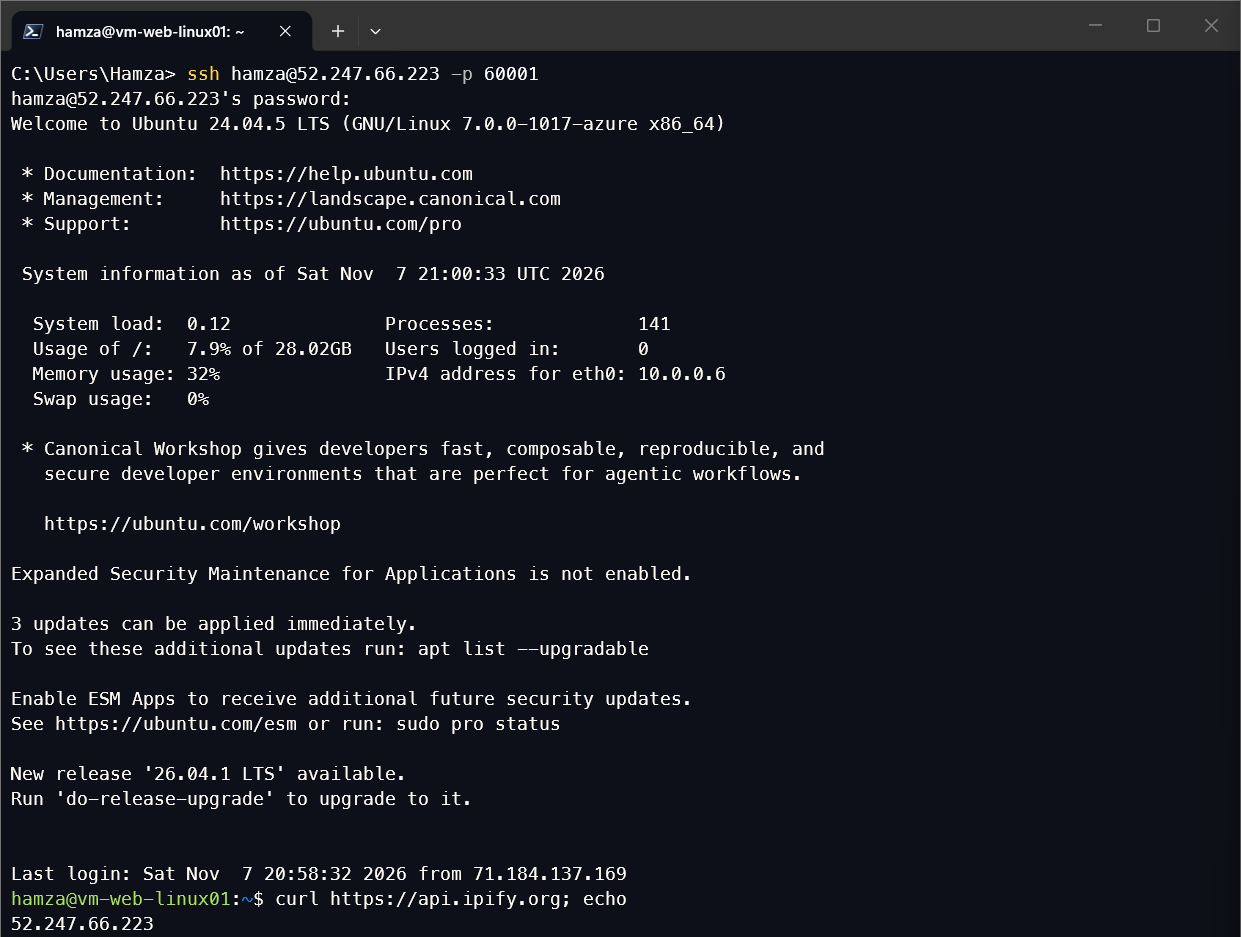
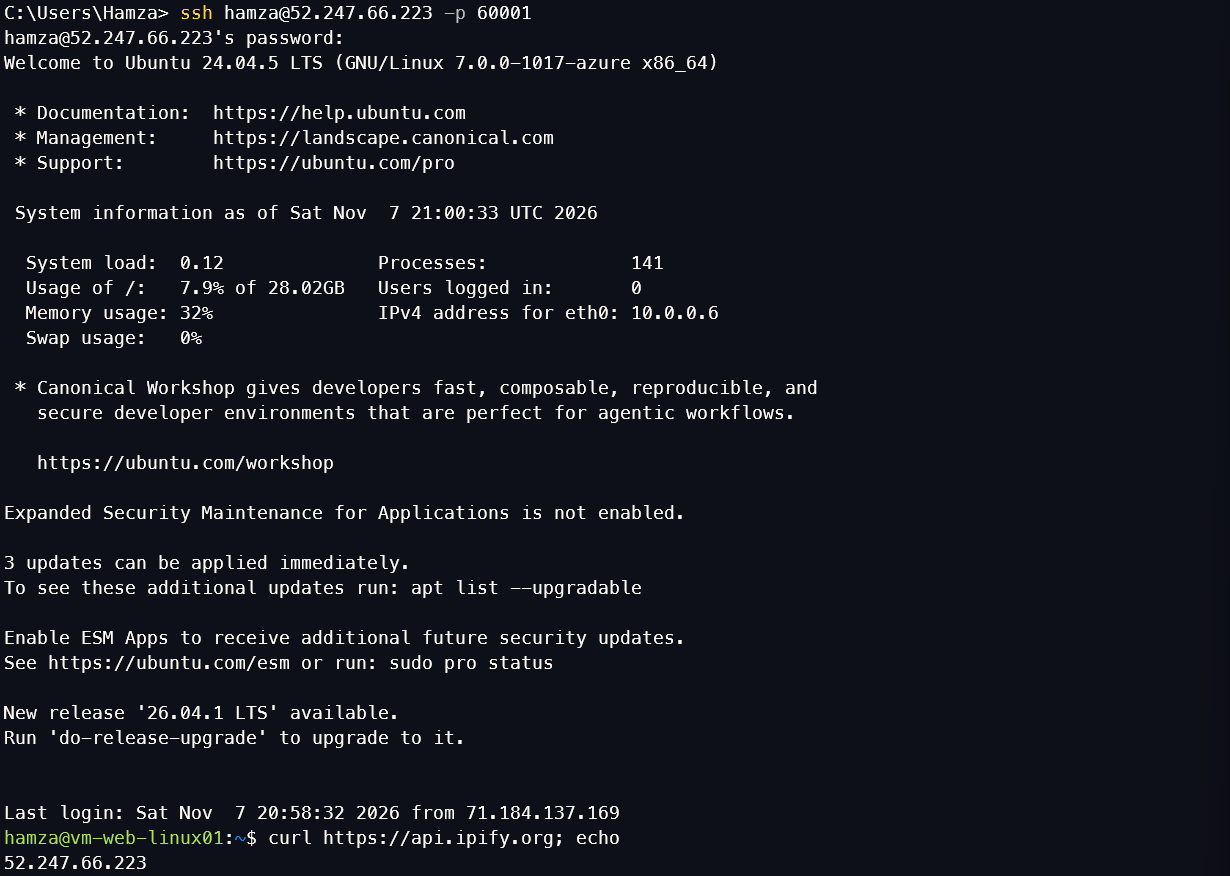
commit

diff --git a/01-Networking/README.md b/01-Networking/README.md
@@ -1,15 +1,15 @@
-# Project 01 — Azure Hub-and-Spoke Network & Security Architecture
+# Project 01 - Azure Hub-and-Spoke Network & Security Architecture
 
 ![Azure Hub-and-Spoke Network & Security Architecture](Architecture/01-Azure-Hub-and-Spoke-Network-Security-Architecture.svg)
 
 ## Overview
 
-This project builds a hub-and-spoke network in Azure to centralize traffic inspection and provide secure access to private workloads. Azure Firewall controls outbound traffic, Azure Bastion provides administrative access to the virtual machines, and firewall diagnostics are sent to Log Analytics for monitoring.
+This project builds a hub-and-spoke network in Azure to centralize traffic inspection and provide secure access to private workloads. Azure Firewall controls outbound traffic, Azure Bastion provides administrative access to the virtual machines, and firewall diagnostics are sent to Log Analytics for monitoring. Windows Server and Ubuntu test VMs are used to validate private connectivity, DNS resolution, and controlled outbound access.
 
 Resources are organized into two resource groups:
 
-- `rg-network-hub` — hub VNet, Azure Firewall, Azure Bastion, public IP resources, and Log Analytics.
-- `rg-network-workload` — workload VNet, NSG, route table, and test VMs.
+- `rg-network-hub` - hub VNet, Azure Firewall, Azure Bastion, public IP resources, and Log Analytics.
+- `rg-network-workload` - workload VNet, NSG, route table, and test VMs.
 
 The script creates both resource groups in East US 2 and checks their provisioning state:
 
@@ -104,7 +104,7 @@ $VirtualMachine = Add-AzVMNetworkInterface -VM $VMConfig -Id $NetworkInterface.I
 New-AzVM -ResourceGroupName $ResourceGroupName -Location $Location -VM $VirtualMachine
 ```
 
-The Ubuntu script uses `-Linux` in `Set-AzVMOperatingSystem`; both scripts collect credentials with `Get-Credential`.
+The Ubuntu script uses `-Linux` in `Set-AzVMOperatingSystem`. Both scripts collect credentials with `Get-Credential`.
 
 **Scripts:** [Windows VM](Scripts/06-Create-WindowsVM.ps1) · [Ubuntu VM](Scripts/07-Create-UbuntuVM.ps1)
 
@@ -155,7 +155,7 @@ Both public IP resources are created before `azfw-hub`:
 $FirewallPublicIP = New-AzPublicIpAddress -Name $FirewallPublicIPName -ResourceGroupName $ResourceGroupName -Location $Location -AllocationMethod Static
 $ManagementPublicIP = New-AzPublicIpAddress -Name $ManagementPublicIPName -ResourceGroupName $ResourceGroupName -Location $Location -AllocationMethod Static
 
-$Firewall = New-AzFirewall -Name $FirewallName -ResourceGroupName $ResourceGroupName -Location $Location -VirtualNetwork $HubVNet -PublicIpAddress $FirewallPublicIP -ManagementPublicIpAddress $ManagementPublicIP -SkuTier $FirewallSKU
+$Firewall = New-AzFirewall -Name $FirewallName -ResourceGroupName $ResourceGroupName -Location $Location -VirtualNetwork $HubVNet -PublicIpAddress $FirewallPublicIP -ManagementPublicIpAddress $ManagementPublicIP -SkuTier Basic
 ```
 
 After deployment, the firewall configuration is checked for its assigned private IP:
@@ -172,7 +172,7 @@ $Firewall = Get-AzFirewall -Name $FirewallName -ResourceGroupName $FirewallResou
 $FirewallPrivateIP = $Firewall.IpConfigurations[0].PrivateIpAddress
 
 $RouteTable = New-AzRouteTable -Name $RouteTableName -ResourceGroupName $ResourceGroupName -Location $Location
-Add-AzRouteConfig -Name $RouteName -AddressPrefix $AddressPrefix -NextHopType $NextHopType -NextHopIpAddress $FirewallPrivateIP -RouteTable $RouteTable
+Add-AzRouteConfig -Name $RouteName -AddressPrefix $AddressPrefix -NextHopType VirtualAppliance -NextHopIpAddress $FirewallPrivateIP -RouteTable $RouteTable
 Set-AzRouteTable -RouteTable $RouteTable
 ```
 
@@ -192,8 +192,8 @@ The firewall provides centralized outbound filtering for the workload subnet. It
 `allow-dns` is a network rule targeting an IP address and port. `allow-https` is an application rule targeting an FQDN. The DNS rule and its collection are created and applied to `azfw-hub` as follows:
 
 ```powershell
-$Rule = New-AzFirewallNetworkRule -Name 'allow-dns' -SourceAddress '10.1.0.0/24' -DestinationAddress '1.1.1.1' -Protocol 'UDP' -DestinationPort '53'
-$RuleCollection = New-AzFirewallNetworkRuleCollection -Name 'rc-workload-network' -Priority 100 -ActionType 'Allow' -Rule $Rule
+$Rule = New-AzFirewallNetworkRule -Name 'allow-dns' -SourceAddress '10.1.0.0/24' -DestinationAddress '1.1.1.1' -Protocol UDP -DestinationPort 53
+$RuleCollection = New-AzFirewallNetworkRuleCollection -Name 'rc-workload-network' -Priority 100 -ActionType Allow -Rule $Rule
 
 $Firewall = Get-AzFirewall -Name 'azfw-hub' -ResourceGroupName 'rg-network-hub'
 $Firewall.NetworkRuleCollections.Add($RuleCollection)
@@ -204,7 +204,7 @@ Set-AzFirewall -AzureFirewall $Firewall
 
 ```powershell
 $Rule = New-AzFirewallApplicationRule -Name 'allow-https' -SourceAddress '10.1.0.0/24' -TargetFqdn 'google.com' -Protocol 'Https:443'
-$RuleCollection = New-AzFirewallApplicationRuleCollection -Name 'rc-workload-app' -Priority 200 -ActionType 'Allow' -Rule $Rule
+$RuleCollection = New-AzFirewallApplicationRuleCollection -Name 'rc-workload-app' -Priority 200 -ActionType Allow -Rule $Rule
 
 $Firewall = Get-AzFirewall -Name 'azfw-hub' -ResourceGroupName 'rg-network-hub'
 $Firewall.ApplicationRuleCollections.Add($RuleCollection)
@@ -217,11 +217,11 @@ Set-AzFirewall -AzureFirewall $Firewall
 
 ## Azure Bastion
 
-Azure Bastion Basic (`bastion-hub`) is deployed in `AzureBastionSubnet` on `vnet-hub`, using Standard static public IP `pip-bastion-hub`. It provides RDP access to `vm-windows01` and SSH access to `vm-ubuntu01`; neither VM has a public IP:
+Azure Bastion Basic (`bastion-hub`) is deployed in `AzureBastionSubnet` on `vnet-hub`, using Standard static public IP `pip-bastion-hub`. It provides RDP access to `vm-windows01` and SSH access to `vm-ubuntu01`. Neither VM has a public IP:
 
 ```powershell
-$PublicIP = New-AzPublicIpAddress -Name 'pip-bastion-hub' -ResourceGroupName 'rg-network-hub' -Location 'eastus2' -Sku 'Standard' -AllocationMethod 'Static'
-$Bastion = New-AzBastion -Name 'bastion-hub' -ResourceGroupName 'rg-network-hub' -Sku 'Basic' -PublicIpAddress $PublicIP -VirtualNetwork $VirtualNetwork
+$PublicIP = New-AzPublicIpAddress -Name 'pip-bastion-hub' -ResourceGroupName 'rg-network-hub' -Location 'eastus2' -Sku Standard -AllocationMethod Static
+$Bastion = New-AzBastion -Name 'bastion-hub' -ResourceGroupName 'rg-network-hub' -Sku Basic -PublicIpAddress $PublicIP -VirtualNetwork $VirtualNetwork
 
 Get-AzBastion -Name 'bastion-hub' -ResourceGroupName 'rg-network-hub' | Format-List Name, ProvisioningState, Sku
 ```
@@ -249,16 +249,40 @@ $Log = @(
 New-AzDiagnosticSetting -Name 'diag-azfw-hub' -ResourceId $Firewall.Id -WorkspaceId $Workspace.ResourceId -Log $Log -LogAnalyticsDestinationType 'Dedicated'
 ```
 
-The KQL queries are kept in the `Queries/` folder:
+The KQL queries are kept in the `Queries/` folder. The network-rule query retrieves recent network-rule events:
+
+```kql
+AZFWNetworkRule
+| where TimeGenerated > ago(15m)
+| sort by TimeGenerated desc
+```
+
+The application-rule query uses the same time window against `AZFWApplicationRule`:
+
+```kql
+AZFWApplicationRule
+| where TimeGenerated > ago(15m)
+| sort by TimeGenerated desc
+```
 
 - [Network rule query](Queries/01-FirewallNetworkRules.kql)
 - [Application rule query](Queries/02-FirewallApplicationRules.kql)
 
-The query results show DNS requests matching `allow-dns` and HTTPS requests to `google.com` matching `allow-https`. Exports are stored in `Queries/Results/`.
+The exported results provide evidence of the firewall's allow and deny decisions. The network-rule export contains 19 events: 11 allowed DNS requests to `1.1.1.1:53` and 8 denied UDP requests to port 123 by the default action. The application-rule export contains 75 HTTPS events: 2 requests to `google.com` matched `rc-workload-app` / `allow-https`, while 73 unmatched requests were denied by the default action. This reflects the intentionally narrow outbound policy rather than unrestricted internet access.
 
 **Scripts:** [Create Log Analytics workspace](Scripts/12-Create-LogAnalyticsWorkspace.ps1) · [Configure firewall diagnostics](Scripts/13-Configure-AzureFirewallDiagnostics.ps1)
 
-**Screenshots:** [Log Analytics workspace](Screenshots/20-Log-Analytics-Workspace.png) · [Firewall diagnostic setting](Screenshots/21-Firewall-Diagnostic-Settings.png) · [Network rule logs](Screenshots/28-Firewall-Network-Rule-Logs.png) · [Application rule logs](Screenshots/29-Firewall-Application-Rule-Logs.png)
+**Screenshots:** [Log Analytics workspace](Screenshots/20-Log-Analytics-Workspace.png) · [Firewall diagnostic setting](Screenshots/21-Firewall-Diagnostic-Settings.png)
+
+### Network rule logs
+
+![Firewall network rule logs](Screenshots/28-Firewall-Network-Rule-Logs.png)
+
+### Application rule logs
+
+![Firewall application rule logs](Screenshots/29-Firewall-Application-Rule-Logs.png)
+
+**Exported results:** [Network rule results](Queries/Results/01-FirewallNetworkRules-2026-11-04.csv) · [Application rule results](Queries/Results/02-FirewallApplicationRules-2026-11-04.csv)
 
 ## Connectivity validation
 
@@ -287,13 +311,44 @@ curl -I https://google.com
 | Ubuntu HTTPS | `curl -I https://google.com` | `HTTP/2 301` |
 | Windows HTTPS diagnostic | `curl.exe -Iv --ssl-no-revoke https://google.com` | Request completed |
 
-The SSH and RDP tests confirm that the ports are reachable; they do not establish authenticated sessions. Bastion session records are shown separately.
+The SSH and RDP tests confirm that the ports are reachable. They do not establish authenticated sessions. Bastion session records are shown separately.
 
-**Screenshots:** [Windows-to-Ubuntu SSH](Screenshots/24-Windows-to-Ubuntu-SSH-Test.png) · [Ubuntu-to-Windows RDP port test](Screenshots/25-Ubuntu-to-Windows-RDP-Test.png) · [Windows DNS](Screenshots/26.1-Windows-DNS-Resolution-Test.png) · [Ubuntu DNS](Screenshots/26.2-Ubuntu-DNS-Resolution-Test.png) · [Windows HTTPS](Screenshots/27.1-Windows-HTTPS-Connectivity-Test.png) · [Ubuntu HTTPS](Screenshots/27.2-Ubuntu-HTTPS-Connectivity-Test.png)
+After connecting to each VM through Azure Bastion, I ran the connectivity tests from its session. The following screenshots show the results from both VMs for private connectivity, DNS resolution, and HTTPS connectivity.
+
+**Private connectivity - Windows VM to Ubuntu VM (SSH port 22)**
+
+![Windows-to-Ubuntu SSH test](Screenshots/24-Windows-to-Ubuntu-SSH-Test.png)
+
+**Private connectivity - Ubuntu VM to Windows VM (RDP port 3389)**
+
+![Ubuntu-to-Windows RDP port test](Screenshots/25-Ubuntu-to-Windows-RDP-Test.png)
+
+**DNS resolution - from Windows VM**
+
+![Windows DNS resolution test](Screenshots/26.1-Windows-DNS-Resolution-Test.png)
+
+**DNS resolution - from Ubuntu VM**
+
+![Ubuntu DNS resolution test](Screenshots/26.2-Ubuntu-DNS-Resolution-Test.png)
+
+**HTTPS connectivity - from Windows VM**
+
+![Windows HTTPS connectivity test](Screenshots/27.1-Windows-HTTPS-Connectivity-Test.png)
+
+**HTTPS connectivity - from Ubuntu VM**
+
+![Ubuntu HTTPS connectivity test](Screenshots/27.2-Ubuntu-HTTPS-Connectivity-Test.png)
+
+## Additional scripts
+
+I added the deallocation and allocation scripts so I can shut down Azure Firewall between lab sessions and avoid paying for it while I'm not using the environment. When I need the firewall again, the allocation script recreates its public IP resources and updates the workload route if the firewall's private IP has changed. The public IP addresses may also change when they are recreated.
+
+- [Deallocate Azure Firewall](Scripts/Extras/01-Deallocate-AzureFirewall.ps1)
+- [Allocate Azure Firewall](Scripts/Extras/02-Allocate-AzureFirewall.ps1)
 
 ## Project files
 
-- `Architecture/` — architecture diagram.
-- `Scripts/` — deployment and operational scripts.
-- `Queries/` — KQL queries and exported results.
-- `Screenshots/` — configuration and validation evidence.
+- `Architecture/` - architecture diagram.
+- `Scripts/` - deployment, operational, and extra scripts.
+- `Queries/` - KQL queries and exported results.
+- `Screenshots/` - configuration and validation evidence.

diff --git a/02-Compute-Web/README.md b/02-Compute-Web/README.md
@@ -1,4 +1,4 @@
-# Project 02 — Azure Compute, Load Balancing & Web Infrastructure
+# Project 02  -  Azure Compute, Load Balancing & Web Infrastructure
 
 ![Azure Compute, Load Balancing & Web Infrastructure](Architecture/02-Azure-Compute-Load-Balancing-Web-Infrastructure.svg)
 
@@ -381,15 +381,23 @@ The same script also creates the RDP and SSH NSG rules using my public IPv4 as t
 
 The NAT mappings were validated by connecting to each VM through its Load Balancer frontend. The sessions below show the target hostname and confirm that administrative access works without public IP addresses on the VM NICs.
 
-**Windows — RDP**
+**Windows  -  RDP**
+
+#### RDP to `vm-web-win01` via `40.70.207.116:50001`
 
 ![RDP session to vm-web-win01](Screenshots/20.1-RDP-vm-web-win01.png)
 
+#### RDP to `vm-web-win02` via `40.70.207.116:50002`
+
 ![RDP session to vm-web-win02](Screenshots/20.2-RDP-vm-web-win02.png)
 
-**Linux — SSH**
+**Linux  -  SSH**
+
+#### SSH to `vm-web-linux01` via `52.247.66.223:60001`
 
 ![SSH session to vm-web-linux01](Screenshots/21.1-SSH-vm-web-linux01.png)
+
+#### SSH to `vm-web-linux02` via `52.247.66.223:60002`
 
 ![SSH session to vm-web-linux02](Screenshots/21.2-SSH-vm-web-linux02.png)
 
@@ -538,8 +546,8 @@ Backend deallocation was used to test how the health probes affect traffic distr
 
 ## Project files
 
-- `Architecture/` — architecture diagram and exported versions.
-- `Configs/` — IIS and NGINX guest configuration.
-- `Commands/` — command output from load-balancing, failover, recovery, and DNS validation.
-- `Screenshots/` — Azure configuration and validation evidence.
-- `Scripts/` — Azure PowerShell deployment and configuration scripts.
+- `Architecture/`  -  architecture diagram and exported versions.
+- `Configs/`  -  IIS and NGINX guest configuration.
+- `Commands/`  -  command output from load-balancing, failover, recovery, and DNS validation.
+- `Screenshots/`  -  Azure configuration and validation evidence.
+- `Scripts/`  -  Azure PowerShell deployment and configuration scripts.
